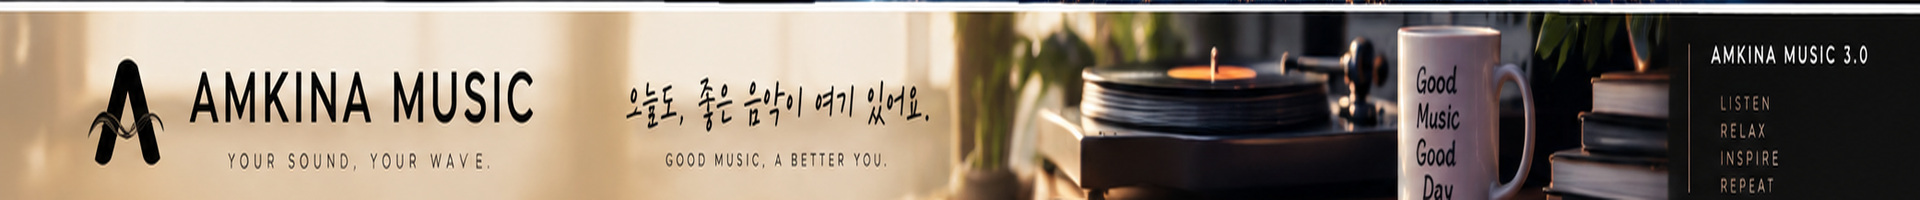
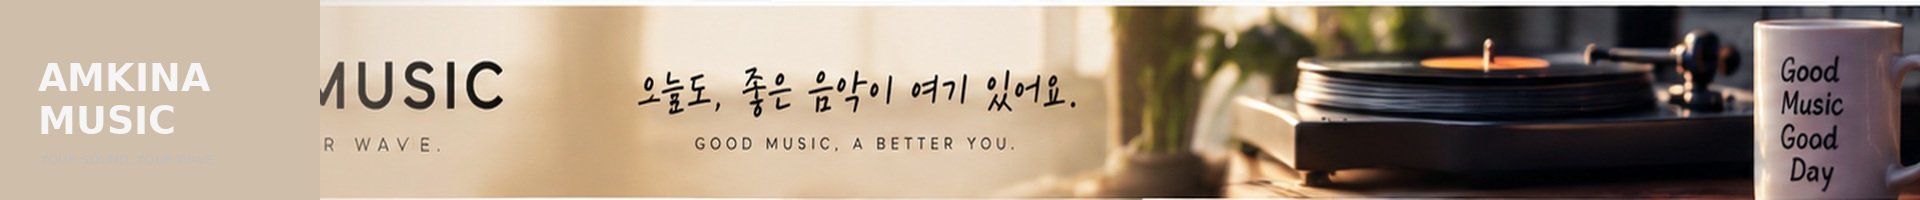
Add files via upload

diff --git a/index.html b/index.html
@@ -3617,6 +3617,44 @@ document.addEventListener("DOMContentLoaded", function(){
 .hero-slider .hero-slide img{display:block!important;width:100%!important;height:100%!important;max-width:none!important;object-fit:fill!important;object-position:center center!important;margin:0!important;}
 @media(max-width:768px){.hero-slider{aspect-ratio:48/5!important;min-height:0!important;height:auto!important;margin:10px 12px!important;border-radius:12px!important;}}
 </style>
+
+<style id="amkina-banner-no-crop-final-v3">
+/* FINAL: banner artwork is already 1920x200; never crop it in the browser */
+.hero-slider{
+  position:relative !important;
+  width:auto !important;
+  height:auto !important;
+  aspect-ratio:9.6 / 1 !important;
+  min-height:0 !important;
+  max-height:none !important;
+  overflow:hidden !important;
+  background:#050505 !important;
+}
+.hero-slider .hero-slide,
+.hero-slider .hero-slide.active{
+  position:absolute !important;
+  inset:0 !important;
+  width:100% !important;
+  height:100% !important;
+}
+.hero-slider .hero-slide img{
+  display:block !important;
+  width:100% !important;
+  height:100% !important;
+  object-fit:fill !important;
+  object-position:center center !important;
+}
+@media (max-width:768px){
+  .hero-slider{
+    aspect-ratio:9.6 / 1 !important;
+    min-height:72px !important;
+  }
+  .hero-slider .hero-slide img{
+    object-fit:fill !important;
+  }
+}
+</style>
+
 </head>
 
 <body>
